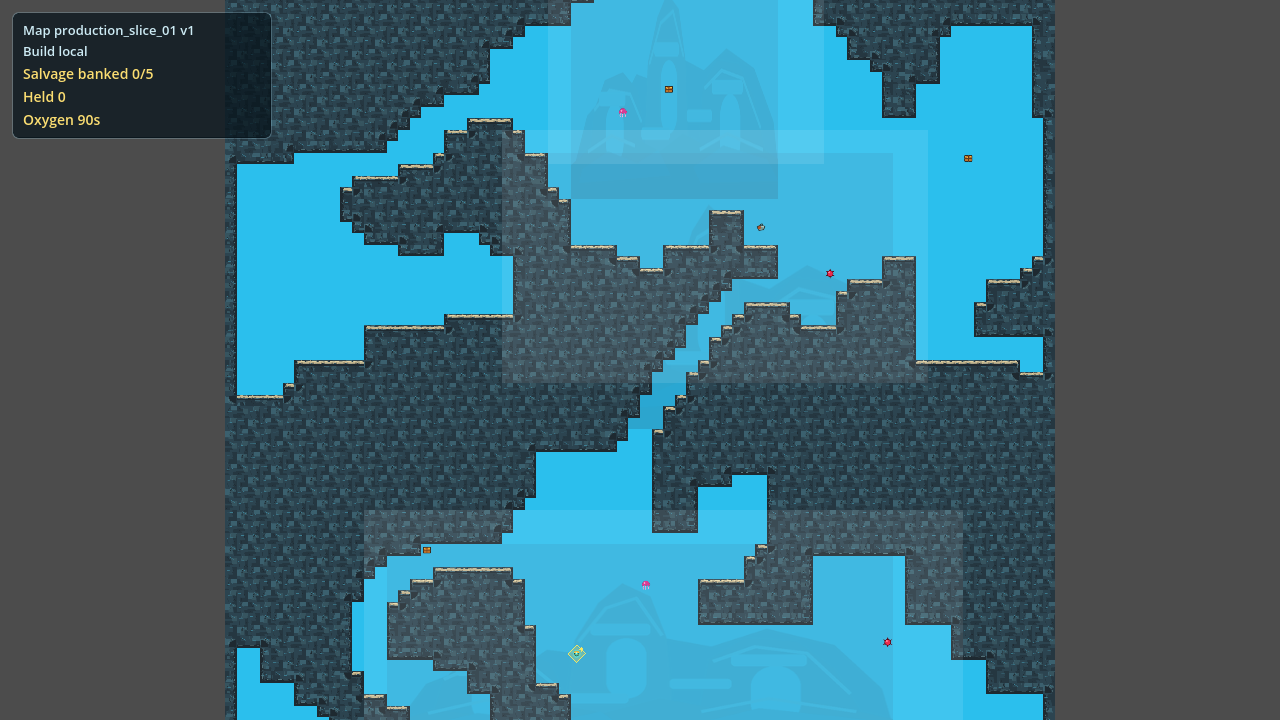
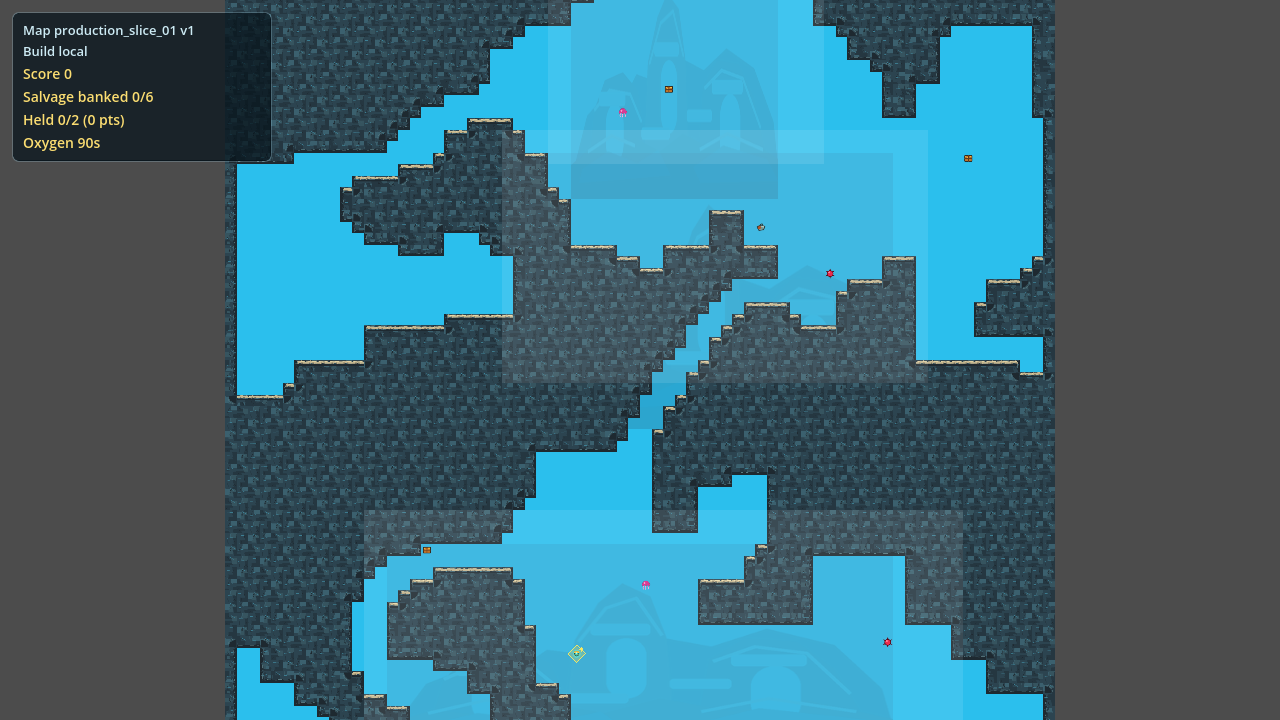
Accept expedition loop visual baseline (#127)

Changed region(s): [[0.0, 0.0917, 0.2188, 0.2444]]

diff --git a/docs/current/PROJECT_CONTEXT.md b/docs/current/PROJECT_CONTEXT.md
@@ -72,6 +72,7 @@ The project is intentionally simple on gameplay until the visual pipeline is tru
 - Oxygen pressure baseline decision: `docs/current/OXYGEN_PRESSURE_BASELINE_DECISION.md`
 - Route payoff visual baseline decision: `docs/current/ROUTE_PAYOFF_VISUAL_BASELINE_DECISION.md`
 - Route payoff web preview verification: `docs/current/ROUTE_PAYOFF_WEB_PREVIEW_VERIFICATION.md`
+- Expedition loop visual baseline decision: `docs/current/EXPEDITION_LOOP_VISUAL_BASELINE_DECISION.md`
 
 Start every new coding session by reading `AGENTS.md`, this file, `README.md`, and the relevant docs under `docs/current/`.
 
@@ -411,6 +412,7 @@ Recent important commits:
 - `docs/current/CONTROLLED_GAMEPLAY_PASS_03_PLAN.md` selects the next controlled prototype target: make the default loop feel like an expedition by adding scored salvage, cargo pressure, compact run results, retry flow, and one more authored route decision.
 - `docs/current/OXYGEN_PRESSURE_BASELINE_DECISION.md` records #113: the current oxygen baseline keeps a 90-second tank, starts `LOW` feedback at 35 seconds, escalates to `CRITICAL` at 12 seconds, and preserves the existing refill/depletion semantics.
 - `docs/current/ROUTE_PAYOFF_VISUAL_BASELINE_DECISION.md` records #118: the tiny valuable-salvage cue on `salvage_lower_loop` is accepted in the `production_slice_01` visual baseline.
+- `docs/current/EXPEDITION_LOOP_VISUAL_BASELINE_DECISION.md` records #127: the current `production_slice_01` expedition-loop captures are accepted with score/cargo/oxygen overlay text and the new `salvage_deep_right_cache` cue; generated `.import` sidecars were removed from accepted production-slice baselines.
 - `docs/current/ROUTE_PAYOFF_WEB_PREVIEW_VERIFICATION.md` records #119: the public Pages preview deployed the route/payoff runtime commit successfully, matched external build metadata, initialized the Godot canvas, and emitted no missing-resource or Godot error messages.
 - `references/greybox/full_cave_sketch_01_conversion_review.png` is generated by the full-sketch converter and compares source sketch, generated tiles, and overlay with conversion stats.
 - `references/greybox/production_slice_01_source_render_collision_review.png` compares production-slice JSON topology, expected collision rectangles, and the Godot overview capture.

diff --git a/docs/current/EXPEDITION_LOOP_VISUAL_BASELINE_DECISION.md b/docs/current/EXPEDITION_LOOP_VISUAL_BASELINE_DECISION.md
@@ -1,0 +1,41 @@
+# Expedition Loop Visual Baseline Decision
+
+Date: 2026-07-06
+
+## Decision
+
+Accept the regenerated `production_slice_01` normal visual captures as the current expedition-loop baseline.
+
+The accepted differences are limited to the Controlled Gameplay Pass 03 surface:
+
+- review overlay text now includes score, held cargo, and oxygen state
+- `salvage_deep_right_cache` appears as the new lower-right valuable salvage cue in the lower-loop view
+- accepted baseline sidecar cleanup removed generated `.import` files from production-slice accepted baseline folders
+
+Terrain shape, collision source, camera framing, background art, boat/player/prop assets, and unrelated production slices remain unchanged for this acceptance pass.
+
+## Review Artifact
+
+Reviewed comparison sheet:
+
+```text
+references/asset_reviews/production_slice_01_visual_baseline_review.png
+```
+
+Accepted baseline:
+
+```text
+visual_baselines/production_slice_01_accepted/
+```
+
+## Verification
+
+```powershell
+& 'C:\Program Files\Godot\Godot_v4.7-stable_win64.exe\Godot_v4.7-stable_win64_console.exe' --path . --quit-after 20 --capture-production-slice-map
+python tools/manage_production_slice_baseline.py --slice production_slice_01 compare
+python tools/manage_production_slice_baseline.py --slice production_slice_01 accept
+& 'C:\Program Files\Godot\Godot_v4.7-stable_win64.exe\Godot_v4.7-stable_win64_console.exe' --path . --quit-after 20 --capture-production-slice-debug-map
+python tools/manage_production_slice_baseline.py clean-generated --all-slices
+python tools/check_production_slice_captures.py --fail-on-stale
+python tools/manage_production_slice_baseline.py check-clean --all-slices
+```
